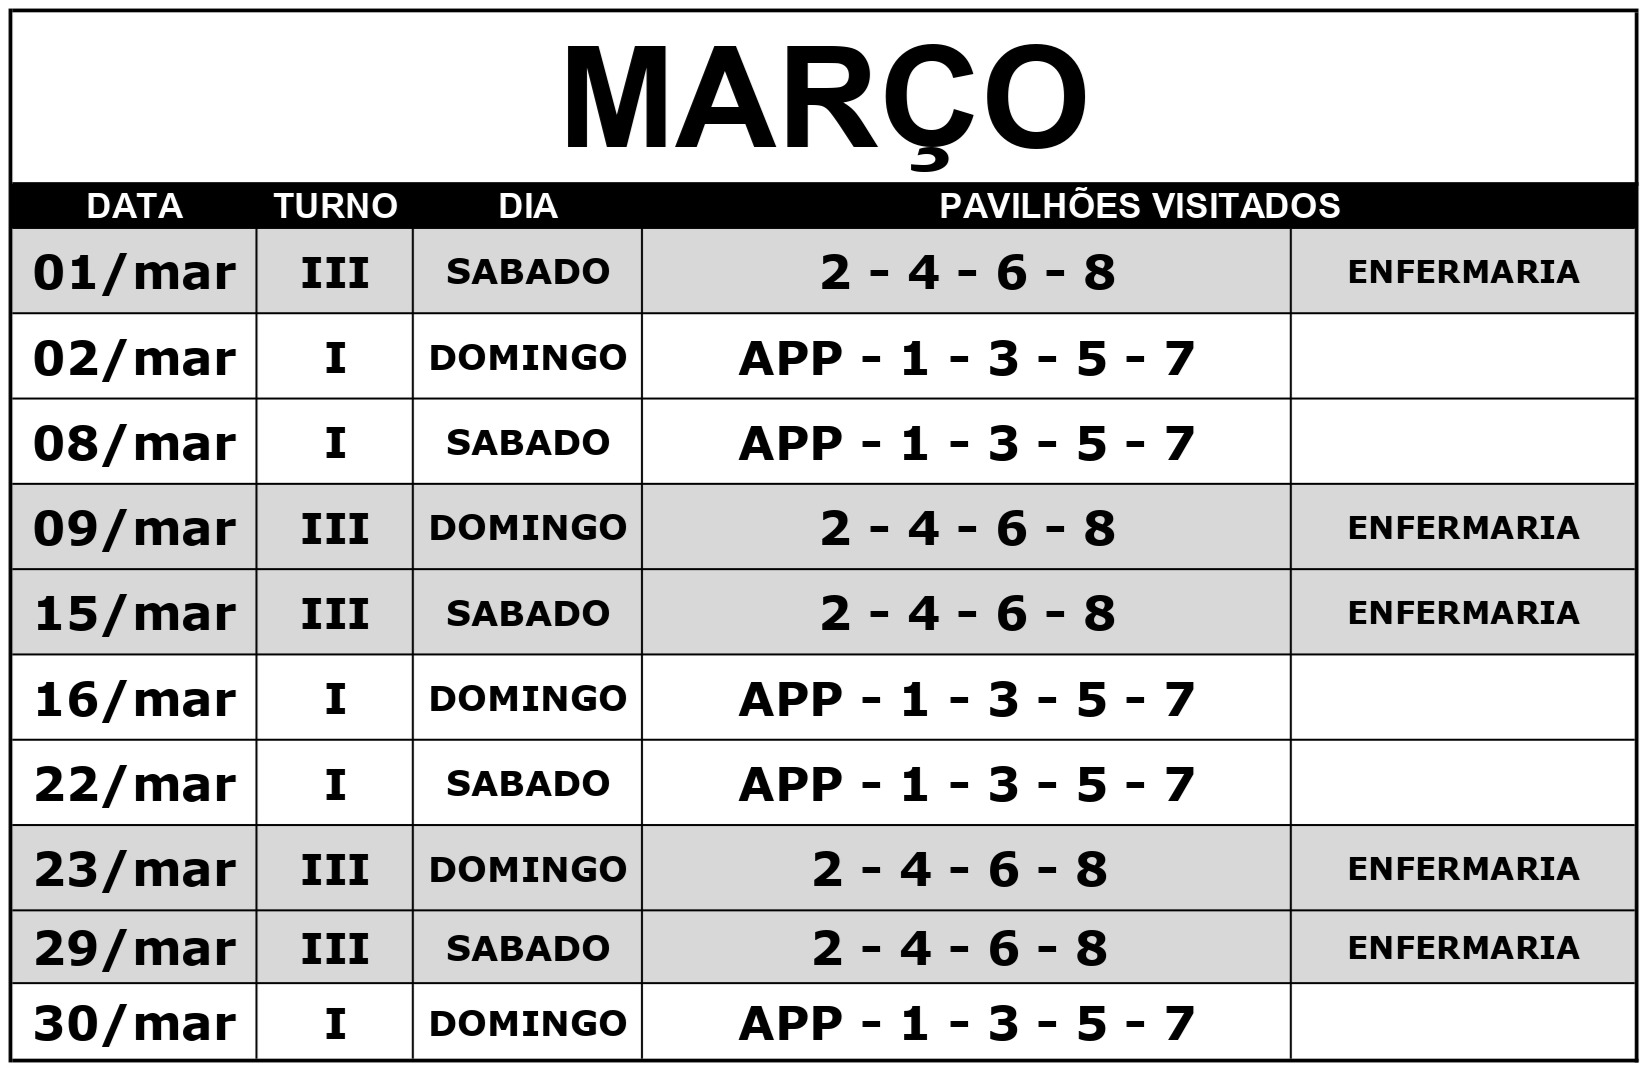
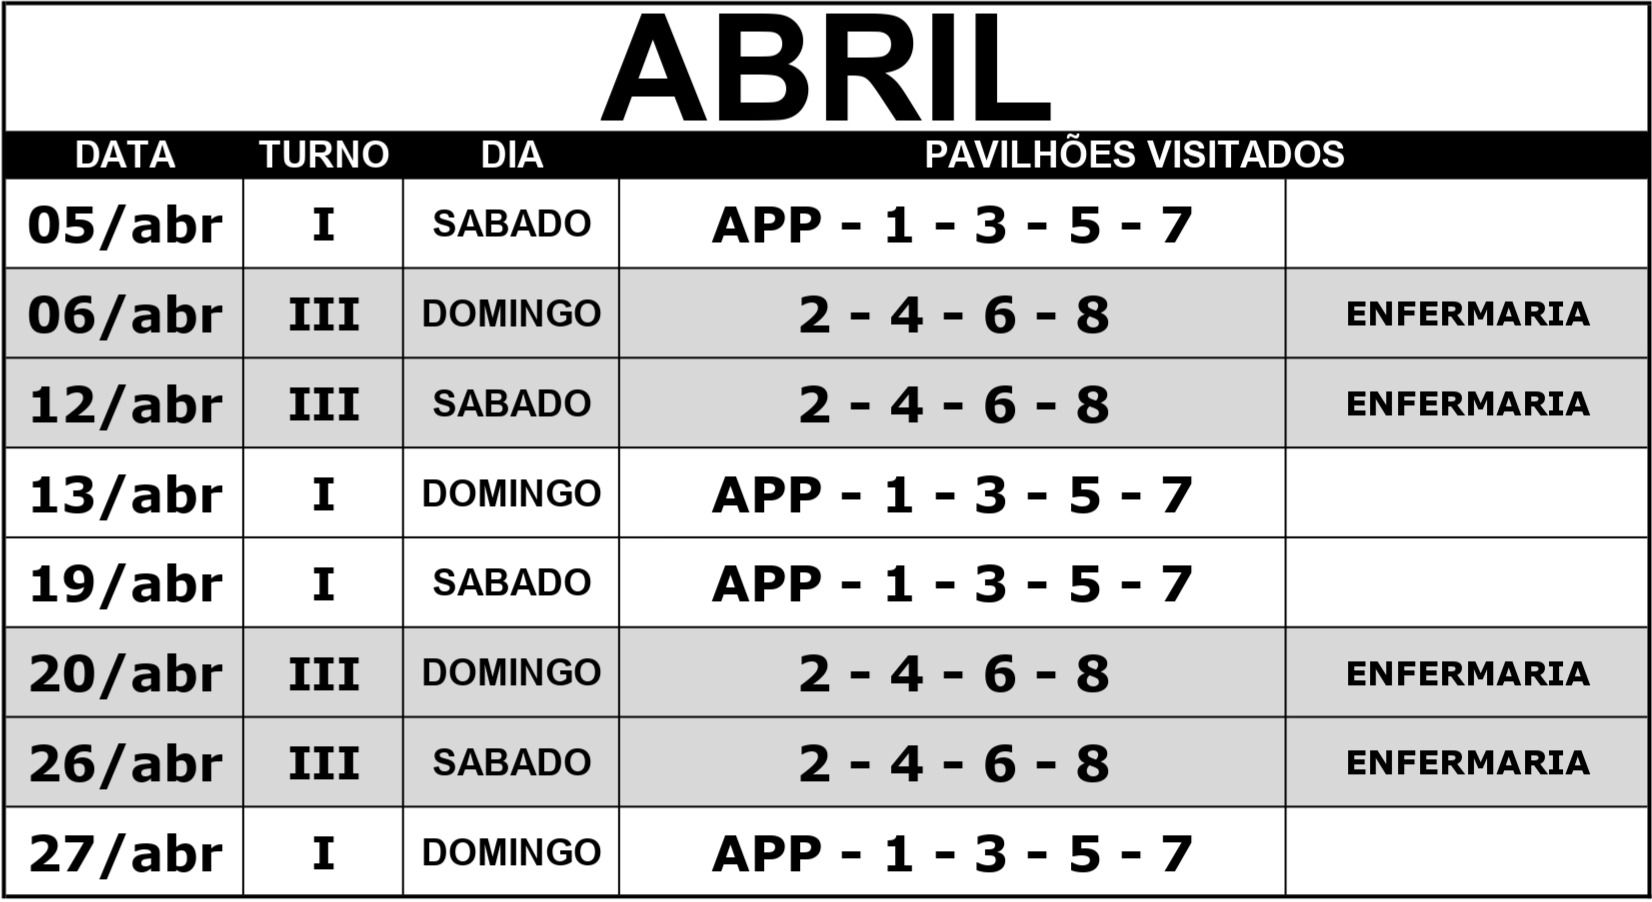
calendario de abril

diff --git a/calendario.html b/calendario.html
@@ -31,7 +31,7 @@ o<!DOCTYPE html>
       <section>
         <h2>Calendário de Visitação</h2>
         <img src="imagens/calendario.jpg" alt="Calendário de Visitação">
-        <p style="text-align: center;">Atualizado dia 25/02/2025</p>
+        <p style="text-align: center;">Atualizado dia 31/03/2025</p>
         <!--<p style="color: red; font-weight: bold; text-align: center;">DEVIDO AS ELEIÇÕES, A VISITAÇÃO DO DIA 02/10/2022 TERÁ SEU HORÁRIO ALERADO. DAS 10H ÀS 16H.</p>-->
       </section>
     </main>

diff --git a/index.html b/index.html
@@ -53,7 +53,7 @@
           <a href="https://www.facebook.com/photo?fbid=718550023773910&set=a.395525812743001">Nota oficial no Facebook da SAP</a>
         </section>
         <section>-->
-          <p>Calendário Março de 2025</p>
+          <p>Calendário Abril de 2025</p>
           <img src="imagens/calendario.jpg" alt="Informações sobre o Calendário">
         </section>
         <section>
